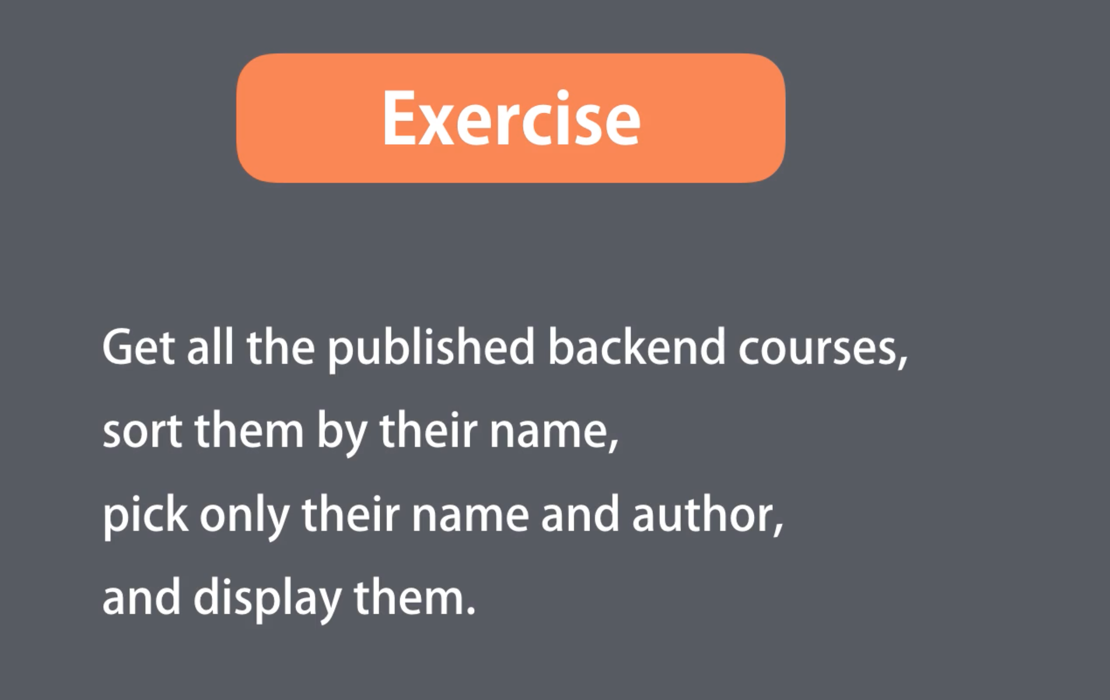
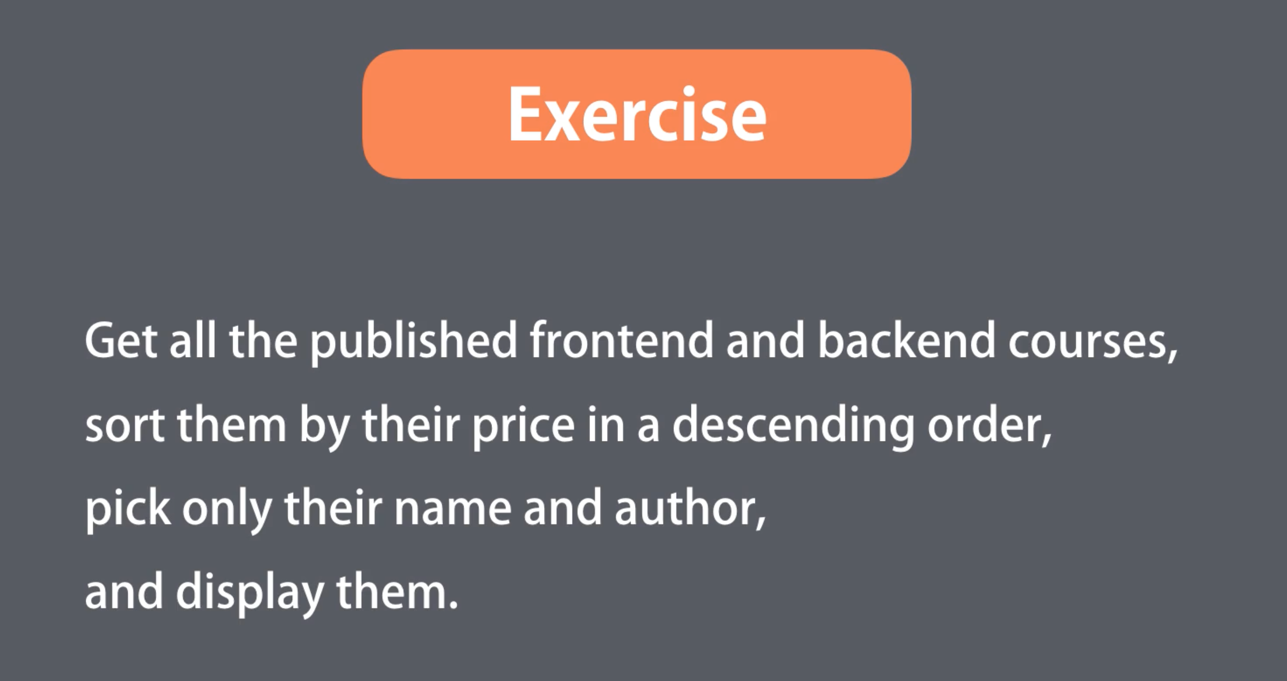
Update

diff --git a/index.js b/index.js
@@ -22,9 +22,10 @@ const Course = mongoose.model('Course', courseSchema);
 
 async function getCourses() {
     return await Course
-        .find({isPublished: true, tags: 'backend'})
-        .sort({name: 1})
-        .select({name: 1, author: 1});
+        .find({ isPublished: true })
+        .or([ { tags: 'frontend' }, { tags: 'backend' } ])
+        .sort('-price')
+        .select('name author price');
 }
 
 async function run() {

diff --git a/README.md b/README.md
@@ -1,6 +1,1 @@
-# Exercise 1
-
-```bash
-docker cp /hostfile  (container_id):/(to_the_place_you_want_the_file_to_be)
-mongoimport --db mongo-exercises --collection courses --authenticationDatabase admin --username admin --password admin --drop --file data.json --jsonArray
-```
+# Exercise 2
